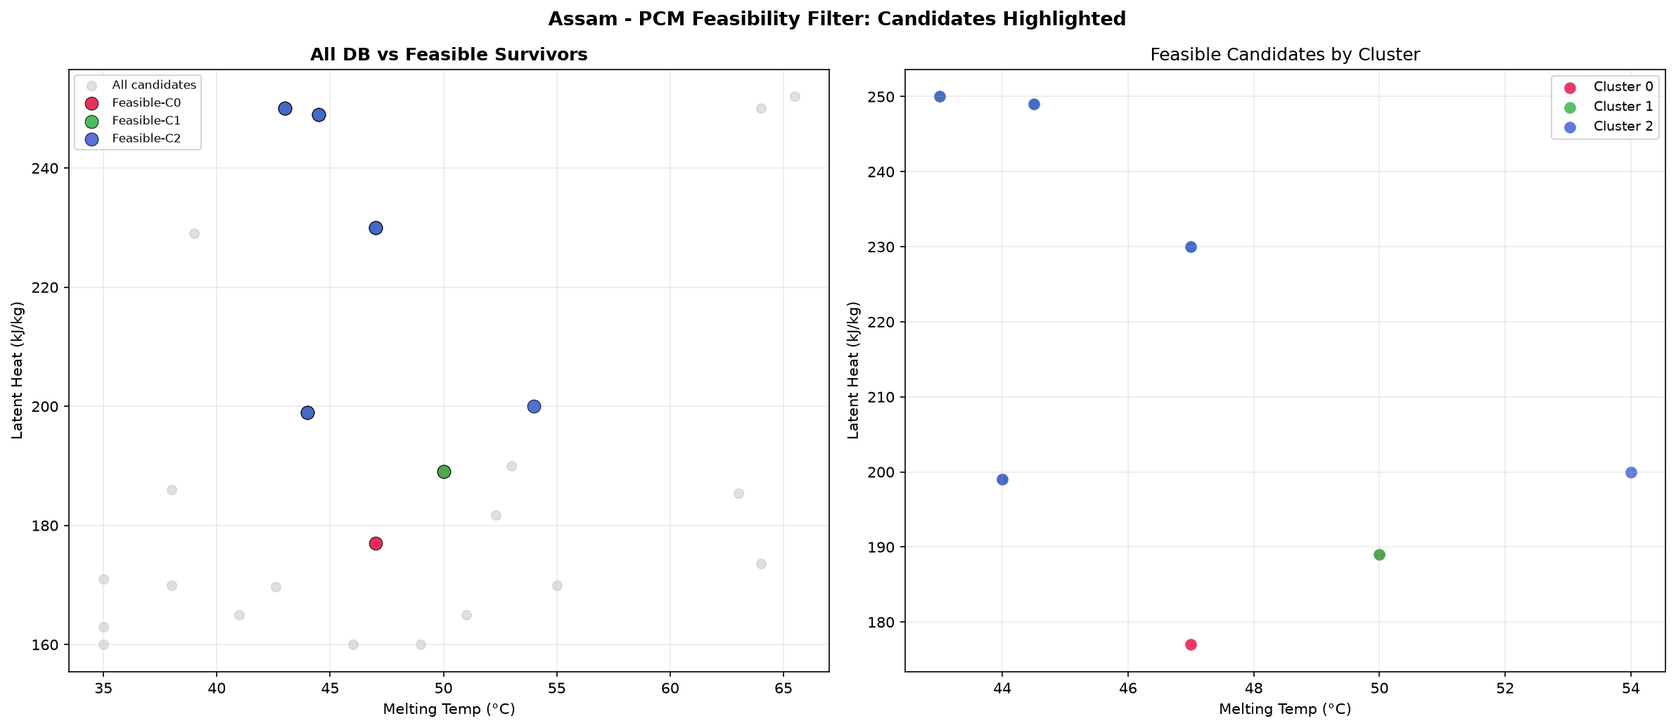
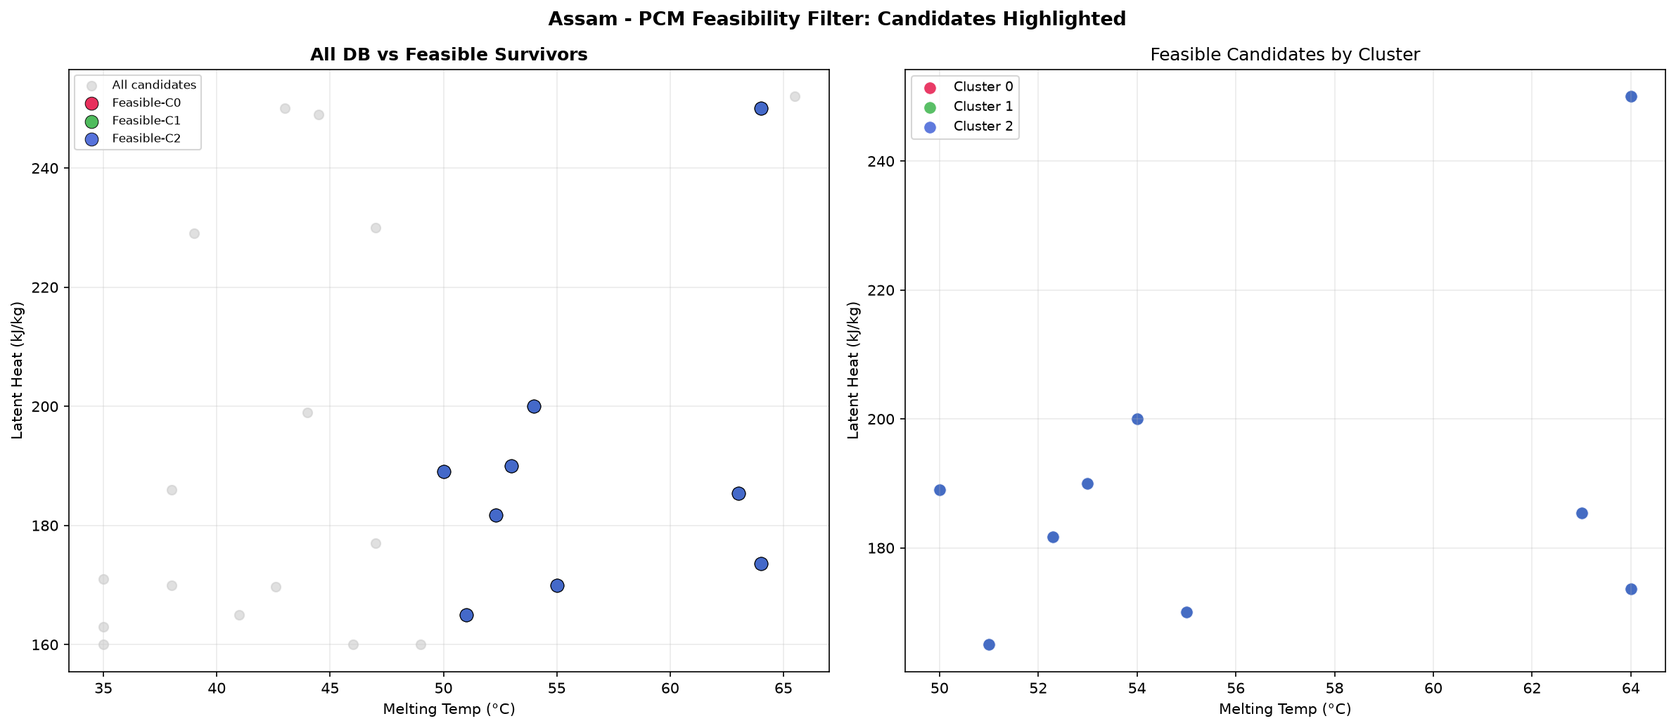
chore(plots): update Assam PCM candidate space and survivors per cluster

diff --git a/public/plots/assam/03_melting_point_vs_latent_heat_interactive.html b/public/plots/assam/03_melting_point_vs_latent_heat_interactive.html
@@ -1,7 +1,11 @@
+<!doctype html>
 <html>
-<head><meta charset="utf-8" /></head>
+<head>
+    <meta charset="utf-8" />
+    <style>html, body {height: 100%;}</style>
+</head>
 <body>
     <div style="height:100%; width:100%;">                        <script>window.PlotlyConfig = {MathJaxConfig: 'local'};</script>
-        <script charset="utf-8" src="https://cdn.plot.ly/plotly-3.6.0.min.js" integrity="sha256-QaOVwtVY0T02VaHrr6pnoHLCwayMJp4O5n4YyaE3rJk=" crossorigin="anonymous"></script>                <div id="8d3543fb-f318-4e74-b277-6341013fbadf" class="plotly-graph-div" style="height:100%; width:100%;"></div>            <script>                window.PLOTLYENV=window.PLOTLYENV || {};                                if (document.getElementById("8d3543fb-f318-4e74-b277-6341013fbadf")) {                    Plotly.newPlot(                        "8d3543fb-f318-4e74-b277-6341013fbadf",                        [{"customdata":[["RT44HC",0.153,800.0],["savE\u00ae OM42",0.145,903.0],["C22H46 (docosane-class paraffin)",null,null],["savE\u00ae OM46",0.15,917.0],["RT45HC",0.1515,900.0],["savE\u00ae OM50",0.175,961.0]],"hovertemplate":"Cluster=0\u003cbr\u003eMelting Temp (\u00b0C)=%{x}\u003cbr\u003eLatent Heat (kJ\u002fkg)=%{y}\u003cbr\u003ename=%{customdata[0]}\u003cbr\u003eTC_W_mK=%{customdata[1]}\u003cbr\u003edensity_solid_kg_m3=%{customdata[2]}\u003cextra\u003e\u003c\u002fextra\u003e","legendgroup":"0","marker":{"color":"rgb(228,26,28)","symbol":"circle"},"mode":"markers","name":"0","orientation":"v","showlegend":true,"x":{"dtype":"f8","bdata":"AAAAAACARUAAAAAAAABGQAAAAAAAQEZAAAAAAACAR0AAAAAAAIBHQAAAAAAAAElA"},"xaxis":"x","y":{"dtype":"f8","bdata":"AAAAAABAb0AAAAAAAOBoQAAAAAAAIG9AAAAAAAAgZkAAAAAAAMBsQAAAAAAAoGdA"},"yaxis":"y","type":"scatter"},{"customdata":[["RT44HC",0.153,800.0],["savE\u00ae OM42",0.145,903.0],["C22H46 (docosane-class paraffin)",null,null],["RT45HC",0.1515,900.0],["savE\u00ae OM50",0.175,961.0]],"hovertemplate":"Cluster=1\u003cbr\u003eMelting Temp (\u00b0C)=%{x}\u003cbr\u003eLatent Heat (kJ\u002fkg)=%{y}\u003cbr\u003ename=%{customdata[0]}\u003cbr\u003eTC_W_mK=%{customdata[1]}\u003cbr\u003edensity_solid_kg_m3=%{customdata[2]}\u003cextra\u003e\u003c\u002fextra\u003e","legendgroup":"1","marker":{"color":"rgb(55,126,184)","symbol":"circle"},"mode":"markers","name":"1","orientation":"v","showlegend":true,"x":{"dtype":"f8","bdata":"AAAAAACARUAAAAAAAABGQAAAAAAAQEZAAAAAAACAR0AAAAAAAABJQA=="},"xaxis":"x","y":{"dtype":"f8","bdata":"AAAAAABAb0AAAAAAAOBoQAAAAAAAIG9AAAAAAADAbEAAAAAAAKBnQA=="},"yaxis":"y","type":"scatter"},{"customdata":[["RT44HC",0.153,800.0],["savE\u00ae OM42",0.145,903.0],["C22H46 (docosane-class paraffin)",null,null],["RT45HC",0.1515,900.0],["RT54HC",0.174,990.0]],"hovertemplate":"Cluster=2\u003cbr\u003eMelting Temp (\u00b0C)=%{x}\u003cbr\u003eLatent Heat (kJ\u002fkg)=%{y}\u003cbr\u003ename=%{customdata[0]}\u003cbr\u003eTC_W_mK=%{customdata[1]}\u003cbr\u003edensity_solid_kg_m3=%{customdata[2]}\u003cextra\u003e\u003c\u002fextra\u003e","legendgroup":"2","marker":{"color":"rgb(77,175,74)","symbol":"circle"},"mode":"markers","name":"2","orientation":"v","showlegend":true,"x":{"dtype":"f8","bdata":"AAAAAACARUAAAAAAAABGQAAAAAAAQEZAAAAAAACAR0AAAAAAAABLQA=="},"xaxis":"x","y":{"dtype":"f8","bdata":"AAAAAABAb0AAAAAAAOBoQAAAAAAAIG9AAAAAAADAbEAAAAAAAABpQA=="},"yaxis":"y","type":"scatter"}],                        {"template":{"data":{"barpolar":[{"marker":{"line":{"color":"white","width":0.5},"pattern":{"fillmode":"overlay","size":10,"solidity":0.2}},"type":"barpolar"}],"bar":[{"error_x":{"color":"#2a3f5f"},"error_y":{"color":"#2a3f5f"},"marker":{"line":{"color":"white","width":0.5},"pattern":{"fillmode":"overlay","size":10,"solidity":0.2}},"type":"bar"}],"carpet":[{"aaxis":{"endlinecolor":"#2a3f5f","gridcolor":"#C8D4E3","linecolor":"#C8D4E3","minorgridcolor":"#C8D4E3","startlinecolor":"#2a3f5f"},"baxis":{"endlinecolor":"#2a3f5f","gridcolor":"#C8D4E3","linecolor":"#C8D4E3","minorgridcolor":"#C8D4E3","startlinecolor":"#2a3f5f"},"type":"carpet"}],"choropleth":[{"colorbar":{"outlinewidth":0,"ticks":""},"type":"choropleth"}],"contourcarpet":[{"colorbar":{"outlinewidth":0,"ticks":""},"type":"contourcarpet"}],"contour":[{"colorbar":{"outlinewidth":0,"ticks":""},"colorscale":[[0.0,"#0d0887"],[0.1111111111111111,"#46039f"],[0.2222222222222222,"#7201a8"],[0.3333333333333333,"#9c179e"],[0.4444444444444444,"#bd3786"],[0.5555555555555556,"#d8576b"],[0.6666666666666666,"#ed7953"],[0.7777777777777778,"#fb9f3a"],[0.8888888888888888,"#fdca26"],[1.0,"#f0f921"]],"type":"contour"}],"heatmap":[{"colorbar":{"outlinewidth":0,"ticks":""},"colorscale":[[0.0,"#0d0887"],[0.1111111111111111,"#46039f"],[0.2222222222222222,"#7201a8"],[0.3333333333333333,"#9c179e"],[0.4444444444444444,"#bd3786"],[0.5555555555555556,"#d8576b"],[0.6666666666666666,"#ed7953"],[0.7777777777777778,"#fb9f3a"],[0.8888888888888888,"#fdca26"],[1.0,"#f0f921"]],"type":"heatmap"}],"histogram2dcontour":[{"colorbar":{"outlinewidth":0,"ticks":""},"colorscale":[[0.0,"#0d0887"],[0.1111111111111111,"#46039f"],[0.2222222222222222,"#7201a8"],[0.3333333333333333,"#9c179e"],[0.4444444444444444,"#bd3786"],[0.5555555555555556,"#d8576b"],[0.6666666666666666,"#ed7953"],[0.7777777777777778,"#fb9f3a"],[0.8888888888888888,"#fdca26"],[1.0,"#f0f921"]],"type":"histogram2dcontour"}],"histogram2d":[{"colorbar":{"outlinewidth":0,"ticks":""},"colorscale":[[0.0,"#0d0887"],[0.1111111111111111,"#46039f"],[0.2222222222222222,"#7201a8"],[0.3333333333333333,"#9c179e"],[0.4444444444444444,"#bd3786"],[0.5555555555555556,"#d8576b"],[0.6666666666666666,"#ed7953"],[0.7777777777777778,"#fb9f3a"],[0.8888888888888888,"#fdca26"],[1.0,"#f0f921"]],"type":"histogram2d"}],"histogram":[{"marker":{"pattern":{"fillmode":"overlay","size":10,"solidity":0.2}},"type":"histogram"}],"mesh3d":[{"colorbar":{"outlinewidth":0,"ticks":""},"type":"mesh3d"}],"parcoords":[{"line":{"colorbar":{"outlinewidth":0,"ticks":""}},"type":"parcoords"}],"pie":[{"automargin":true,"type":"pie"}],"scatter3d":[{"line":{"colorbar":{"outlinewidth":0,"ticks":""}},"marker":{"colorbar":{"outlinewidth":0,"ticks":""}},"type":"scatter3d"}],"scattercarpet":[{"marker":{"colorbar":{"outlinewidth":0,"ticks":""}},"type":"scattercarpet"}],"scattergeo":[{"marker":{"colorbar":{"outlinewidth":0,"ticks":""}},"type":"scattergeo"}],"scattergl":[{"marker":{"colorbar":{"outlinewidth":0,"ticks":""}},"type":"scattergl"}],"scattermapbox":[{"marker":{"colorbar":{"outlinewidth":0,"ticks":""}},"type":"scattermapbox"}],"scattermap":[{"marker":{"colorbar":{"outlinewidth":0,"ticks":""}},"type":"scattermap"}],"scatterpolargl":[{"marker":{"colorbar":{"outlinewidth":0,"ticks":""}},"type":"scatterpolargl"}],"scatterpolar":[{"marker":{"colorbar":{"outlinewidth":0,"ticks":""}},"type":"scatterpolar"}],"scatter":[{"fillpattern":{"fillmode":"overlay","size":10,"solidity":0.2},"type":"scatter"}],"scatterternary":[{"marker":{"colorbar":{"outlinewidth":0,"ticks":""}},"type":"scatterternary"}],"surface":[{"colorbar":{"outlinewidth":0,"ticks":""},"colorscale":[[0.0,"#0d0887"],[0.1111111111111111,"#46039f"],[0.2222222222222222,"#7201a8"],[0.3333333333333333,"#9c179e"],[0.4444444444444444,"#bd3786"],[0.5555555555555556,"#d8576b"],[0.6666666666666666,"#ed7953"],[0.7777777777777778,"#fb9f3a"],[0.8888888888888888,"#fdca26"],[1.0,"#f0f921"]],"type":"surface"}],"table":[{"cells":{"fill":{"color":"#EBF0F8"},"line":{"color":"white"}},"header":{"fill":{"color":"#C8D4E3"},"line":{"color":"white"}},"type":"table"}]},"layout":{"annotationdefaults":{"arrowcolor":"#2a3f5f","arrowhead":0,"arrowwidth":1},"autotypenumbers":"strict","coloraxis":{"colorbar":{"outlinewidth":0,"ticks":""}},"colorscale":{"diverging":[[0,"#8e0152"],[0.1,"#c51b7d"],[0.2,"#de77ae"],[0.3,"#f1b6da"],[0.4,"#fde0ef"],[0.5,"#f7f7f7"],[0.6,"#e6f5d0"],[0.7,"#b8e186"],[0.8,"#7fbc41"],[0.9,"#4d9221"],[1,"#276419"]],"sequential":[[0.0,"#0d0887"],[0.1111111111111111,"#46039f"],[0.2222222222222222,"#7201a8"],[0.3333333333333333,"#9c179e"],[0.4444444444444444,"#bd3786"],[0.5555555555555556,"#d8576b"],[0.6666666666666666,"#ed7953"],[0.7777777777777778,"#fb9f3a"],[0.8888888888888888,"#fdca26"],[1.0,"#f0f921"]],"sequentialminus":[[0.0,"#0d0887"],[0.1111111111111111,"#46039f"],[0.2222222222222222,"#7201a8"],[0.3333333333333333,"#9c179e"],[0.4444444444444444,"#bd3786"],[0.5555555555555556,"#d8576b"],[0.6666666666666666,"#ed7953"],[0.7777777777777778,"#fb9f3a"],[0.8888888888888888,"#fdca26"],[1.0,"#f0f921"]]},"colorway":["#636efa","#EF553B","#00cc96","#ab63fa","#FFA15A","#19d3f3","#FF6692","#B6E880","#FF97FF","#FECB52"],"font":{"color":"#2a3f5f"},"geo":{"bgcolor":"white","lakecolor":"white","landcolor":"white","showlakes":true,"showland":true,"subunitcolor":"#C8D4E3"},"hoverlabel":{"align":"left"},"hovermode":"closest","mapbox":{"style":"light"},"paper_bgcolor":"white","plot_bgcolor":"white","polar":{"angularaxis":{"gridcolor":"#EBF0F8","linecolor":"#EBF0F8","ticks":""},"bgcolor":"white","radialaxis":{"gridcolor":"#EBF0F8","linecolor":"#EBF0F8","ticks":""}},"scene":{"xaxis":{"backgroundcolor":"white","gridcolor":"#DFE8F3","gridwidth":2,"linecolor":"#EBF0F8","showbackground":true,"ticks":"","zerolinecolor":"#EBF0F8"},"yaxis":{"backgroundcolor":"white","gridcolor":"#DFE8F3","gridwidth":2,"linecolor":"#EBF0F8","showbackground":true,"ticks":"","zerolinecolor":"#EBF0F8"},"zaxis":{"backgroundcolor":"white","gridcolor":"#DFE8F3","gridwidth":2,"linecolor":"#EBF0F8","showbackground":true,"ticks":"","zerolinecolor":"#EBF0F8"}},"shapedefaults":{"line":{"color":"#2a3f5f"}},"ternary":{"aaxis":{"gridcolor":"#DFE8F3","linecolor":"#A2B1C6","ticks":""},"baxis":{"gridcolor":"#DFE8F3","linecolor":"#A2B1C6","ticks":""},"bgcolor":"white","caxis":{"gridcolor":"#DFE8F3","linecolor":"#A2B1C6","ticks":""}},"title":{"x":0.05},"xaxis":{"automargin":true,"gridcolor":"#EBF0F8","linecolor":"#EBF0F8","ticks":"","title":{"standoff":15},"zerolinecolor":"#EBF0F8","zerolinewidth":2},"yaxis":{"automargin":true,"gridcolor":"#EBF0F8","linecolor":"#EBF0F8","ticks":"","title":{"standoff":15},"zerolinecolor":"#EBF0F8","zerolinewidth":2}}},"xaxis":{"anchor":"y","domain":[0.0,1.0],"title":{"text":"Melting Temp (\u00b0C)"}},"yaxis":{"anchor":"x","domain":[0.0,1.0],"title":{"text":"Latent Heat (kJ\u002fkg)"}},"legend":{"title":{"text":"Cluster"},"tracegroupgap":0},"title":{"text":"Assam - Feasible PCM Candidate Space (Tm vs Latent Heat)"}},                        {"responsive": true}                    )                };            </script>        </div>
+        <script charset="utf-8" src="https://cdn.plot.ly/plotly-4.0.0.min.js" integrity="sha256-FEYfO0yRyLtZCpnW0Dw/0DHKQO7Afrq3ml4+rBB818o=" crossorigin="anonymous"></script>                <div id="2cdedc4e-c705-4c64-a567-80e247284792" class="plotly-graph-div" style="height:100%; width:100%;"></div>            <script>                window.PLOTLYENV=window.PLOTLYENV || {};                                if (document.getElementById("2cdedc4e-c705-4c64-a567-80e247284792")) {                    Plotly.newPlot(                        "2cdedc4e-c705-4c64-a567-80e247284792",                        [{"customdata":[["savE® OM50",0.175,961.0],["savE® OM48",0.15,960.0],["Palmitic-Stearic eutectic (64.2\u002f35.8)",null,null],["Myristic acid",null,null],["RT54HC",0.174,990.0],["RT55",0.182,880.0],["Palmitic acid",null,null],["RT64HC",0.151,900.0],["Paraffin wax (generic)",null,916.0]],"hovertemplate":"Cluster=0\u003cbr\u003eMelting Temp (°C)=%{x}\u003cbr\u003eLatent Heat (kJ\u002fkg)=%{y}\u003cbr\u003ename=%{customdata[0]}\u003cbr\u003eTC_W_mK=%{customdata[1]}\u003cbr\u003edensity_solid_kg_m3=%{customdata[2]}\u003cextra\u003e\u003c\u002fextra\u003e","legendgroup":"0","marker":{"color":"rgb(228,26,28)","symbol":"circle"},"mode":"markers","name":"0","orientation":"v","showlegend":true,"x":{"dtype":"f8","bdata":"AAAAAAAASUAAAAAAAIBJQGZmZmZmJkpAAAAAAACASkAAAAAAAABLQAAAAAAAgEtAAAAAAACAT0AAAAAAAABQQAAAAAAAAFBA"},"xaxis":"x","y":{"dtype":"f8","bdata":"AAAAAACgZ0AAAAAAAKBkQGZmZmZmtmZAAAAAAADAZ0AAAAAAAABpQAAAAAAAQGVAzczMzMwsZ0AAAAAAAEBvQDMzMzMzs2VA"},"yaxis":"y","type":"scatter"},{"customdata":[["savE® OM50",0.175,961.0],["savE® OM48",0.15,960.0],["Palmitic-Stearic eutectic (64.2\u002f35.8)",null,null],["Myristic acid",null,null],["RT54HC",0.174,990.0],["RT55",0.182,880.0],["Palmitic acid",null,null],["RT64HC",0.151,900.0],["Paraffin wax (generic)",null,916.0]],"hovertemplate":"Cluster=1\u003cbr\u003eMelting Temp (°C)=%{x}\u003cbr\u003eLatent Heat (kJ\u002fkg)=%{y}\u003cbr\u003ename=%{customdata[0]}\u003cbr\u003eTC_W_mK=%{customdata[1]}\u003cbr\u003edensity_solid_kg_m3=%{customdata[2]}\u003cextra\u003e\u003c\u002fextra\u003e","legendgroup":"1","marker":{"color":"rgb(55,126,184)","symbol":"circle"},"mode":"markers","name":"1","orientation":"v","showlegend":true,"x":{"dtype":"f8","bdata":"AAAAAAAASUAAAAAAAIBJQGZmZmZmJkpAAAAAAACASkAAAAAAAABLQAAAAAAAgEtAAAAAAACAT0AAAAAAAABQQAAAAAAAAFBA"},"xaxis":"x","y":{"dtype":"f8","bdata":"AAAAAACgZ0AAAAAAAKBkQGZmZmZmtmZAAAAAAADAZ0AAAAAAAABpQAAAAAAAQGVAzczMzMwsZ0AAAAAAAEBvQDMzMzMzs2VA"},"yaxis":"y","type":"scatter"},{"customdata":[["savE® OM50",0.175,961.0],["savE® OM48",0.15,960.0],["Palmitic-Stearic eutectic (64.2\u002f35.8)",null,null],["Myristic acid",null,null],["RT54HC",0.174,990.0],["RT55",0.182,880.0],["Palmitic acid",null,null],["RT64HC",0.151,900.0],["Paraffin wax (generic)",null,916.0]],"hovertemplate":"Cluster=2\u003cbr\u003eMelting Temp (°C)=%{x}\u003cbr\u003eLatent Heat (kJ\u002fkg)=%{y}\u003cbr\u003ename=%{customdata[0]}\u003cbr\u003eTC_W_mK=%{customdata[1]}\u003cbr\u003edensity_solid_kg_m3=%{customdata[2]}\u003cextra\u003e\u003c\u002fextra\u003e","legendgroup":"2","marker":{"color":"rgb(77,175,74)","symbol":"circle"},"mode":"markers","name":"2","orientation":"v","showlegend":true,"x":{"dtype":"f8","bdata":"AAAAAAAASUAAAAAAAIBJQGZmZmZmJkpAAAAAAACASkAAAAAAAABLQAAAAAAAgEtAAAAAAACAT0AAAAAAAABQQAAAAAAAAFBA"},"xaxis":"x","y":{"dtype":"f8","bdata":"AAAAAACgZ0AAAAAAAKBkQGZmZmZmtmZAAAAAAADAZ0AAAAAAAABpQAAAAAAAQGVAzczMzMwsZ0AAAAAAAEBvQDMzMzMzs2VA"},"yaxis":"y","type":"scatter"}],                        {"template":{"data":{"barpolar":[{"marker":{"line":{"color":"white","width":0.5},"pattern":{"fillmode":"overlay","size":10,"solidity":0.2}},"type":"barpolar"}],"bar":[{"error_x":{"color":"#2a3f5f"},"error_y":{"color":"#2a3f5f"},"marker":{"line":{"color":"white","width":0.5},"pattern":{"fillmode":"overlay","size":10,"solidity":0.2}},"type":"bar"}],"carpet":[{"aaxis":{"endlinecolor":"#2a3f5f","gridcolor":"#C8D4E3","linecolor":"#C8D4E3","minorgridcolor":"#C8D4E3","startlinecolor":"#2a3f5f"},"baxis":{"endlinecolor":"#2a3f5f","gridcolor":"#C8D4E3","linecolor":"#C8D4E3","minorgridcolor":"#C8D4E3","startlinecolor":"#2a3f5f"},"type":"carpet"}],"choropleth":[{"colorbar":{"outlinewidth":0,"ticks":""},"type":"choropleth"}],"contourcarpet":[{"colorbar":{"outlinewidth":0,"ticks":""},"type":"contourcarpet"}],"contour":[{"colorbar":{"outlinewidth":0,"ticks":""},"colorscale":[[0.0,"#0d0887"],[0.1111111111111111,"#46039f"],[0.2222222222222222,"#7201a8"],[0.3333333333333333,"#9c179e"],[0.4444444444444444,"#bd3786"],[0.5555555555555556,"#d8576b"],[0.6666666666666666,"#ed7953"],[0.7777777777777778,"#fb9f3a"],[0.8888888888888888,"#fdca26"],[1.0,"#f0f921"]],"type":"contour"}],"heatmap":[{"colorbar":{"outlinewidth":0,"ticks":""},"colorscale":[[0.0,"#0d0887"],[0.1111111111111111,"#46039f"],[0.2222222222222222,"#7201a8"],[0.3333333333333333,"#9c179e"],[0.4444444444444444,"#bd3786"],[0.5555555555555556,"#d8576b"],[0.6666666666666666,"#ed7953"],[0.7777777777777778,"#fb9f3a"],[0.8888888888888888,"#fdca26"],[1.0,"#f0f921"]],"type":"heatmap"}],"histogram2dcontour":[{"colorbar":{"outlinewidth":0,"ticks":""},"colorscale":[[0.0,"#0d0887"],[0.1111111111111111,"#46039f"],[0.2222222222222222,"#7201a8"],[0.3333333333333333,"#9c179e"],[0.4444444444444444,"#bd3786"],[0.5555555555555556,"#d8576b"],[0.6666666666666666,"#ed7953"],[0.7777777777777778,"#fb9f3a"],[0.8888888888888888,"#fdca26"],[1.0,"#f0f921"]],"type":"histogram2dcontour"}],"histogram2d":[{"colorbar":{"outlinewidth":0,"ticks":""},"colorscale":[[0.0,"#0d0887"],[0.1111111111111111,"#46039f"],[0.2222222222222222,"#7201a8"],[0.3333333333333333,"#9c179e"],[0.4444444444444444,"#bd3786"],[0.5555555555555556,"#d8576b"],[0.6666666666666666,"#ed7953"],[0.7777777777777778,"#fb9f3a"],[0.8888888888888888,"#fdca26"],[1.0,"#f0f921"]],"type":"histogram2d"}],"histogram":[{"marker":{"pattern":{"fillmode":"overlay","size":10,"solidity":0.2}},"type":"histogram"}],"mesh3d":[{"colorbar":{"outlinewidth":0,"ticks":""},"type":"mesh3d"}],"parcoords":[{"line":{"colorbar":{"outlinewidth":0,"ticks":""}},"type":"parcoords"}],"pie":[{"automargin":true,"type":"pie"}],"scatter3d":[{"line":{"colorbar":{"outlinewidth":0,"ticks":""}},"marker":{"colorbar":{"outlinewidth":0,"ticks":""}},"type":"scatter3d"}],"scattercarpet":[{"marker":{"colorbar":{"outlinewidth":0,"ticks":""}},"type":"scattercarpet"}],"scattergeo":[{"marker":{"colorbar":{"outlinewidth":0,"ticks":""}},"type":"scattergeo"}],"scattergl":[{"marker":{"colorbar":{"outlinewidth":0,"ticks":""}},"type":"scattergl"}],"scattermap":[{"marker":{"colorbar":{"outlinewidth":0,"ticks":""}},"type":"scattermap"}],"scatterpolargl":[{"marker":{"colorbar":{"outlinewidth":0,"ticks":""}},"type":"scatterpolargl"}],"scatterpolar":[{"marker":{"colorbar":{"outlinewidth":0,"ticks":""}},"type":"scatterpolar"}],"scatter":[{"fillpattern":{"fillmode":"overlay","size":10,"solidity":0.2},"type":"scatter"}],"scatterternary":[{"marker":{"colorbar":{"outlinewidth":0,"ticks":""}},"type":"scatterternary"}],"surface":[{"colorbar":{"outlinewidth":0,"ticks":""},"colorscale":[[0.0,"#0d0887"],[0.1111111111111111,"#46039f"],[0.2222222222222222,"#7201a8"],[0.3333333333333333,"#9c179e"],[0.4444444444444444,"#bd3786"],[0.5555555555555556,"#d8576b"],[0.6666666666666666,"#ed7953"],[0.7777777777777778,"#fb9f3a"],[0.8888888888888888,"#fdca26"],[1.0,"#f0f921"]],"type":"surface"}],"table":[{"cells":{"fill":{"color":"#EBF0F8"},"line":{"color":"white"}},"header":{"fill":{"color":"#C8D4E3"},"line":{"color":"white"}},"type":"table"}]},"layout":{"annotationdefaults":{"arrowcolor":"#2a3f5f","arrowhead":0,"arrowwidth":1},"autotypenumbers":"strict","coloraxis":{"colorbar":{"outlinewidth":0,"ticks":""}},"colorscale":{"diverging":[[0,"#8e0152"],[0.1,"#c51b7d"],[0.2,"#de77ae"],[0.3,"#f1b6da"],[0.4,"#fde0ef"],[0.5,"#f7f7f7"],[0.6,"#e6f5d0"],[0.7,"#b8e186"],[0.8,"#7fbc41"],[0.9,"#4d9221"],[1,"#276419"]],"sequential":[[0.0,"#0d0887"],[0.1111111111111111,"#46039f"],[0.2222222222222222,"#7201a8"],[0.3333333333333333,"#9c179e"],[0.4444444444444444,"#bd3786"],[0.5555555555555556,"#d8576b"],[0.6666666666666666,"#ed7953"],[0.7777777777777778,"#fb9f3a"],[0.8888888888888888,"#fdca26"],[1.0,"#f0f921"]],"sequentialminus":[[0.0,"#0d0887"],[0.1111111111111111,"#46039f"],[0.2222222222222222,"#7201a8"],[0.3333333333333333,"#9c179e"],[0.4444444444444444,"#bd3786"],[0.5555555555555556,"#d8576b"],[0.6666666666666666,"#ed7953"],[0.7777777777777778,"#fb9f3a"],[0.8888888888888888,"#fdca26"],[1.0,"#f0f921"]]},"colorway":["#636efa","#EF553B","#00cc96","#ab63fa","#FFA15A","#19d3f3","#FF6692","#B6E880","#FF97FF","#FECB52"],"font":{"color":"#2a3f5f"},"geo":{"bgcolor":"white","lakecolor":"white","landcolor":"white","showlakes":true,"showland":true,"subunitcolor":"#C8D4E3"},"hoverlabel":{"align":"left"},"hovermode":"closest","paper_bgcolor":"white","plot_bgcolor":"white","polar":{"angularaxis":{"gridcolor":"#EBF0F8","linecolor":"#EBF0F8","ticks":""},"bgcolor":"white","radialaxis":{"gridcolor":"#EBF0F8","linecolor":"#EBF0F8","ticks":""}},"scene":{"xaxis":{"backgroundcolor":"white","gridcolor":"#DFE8F3","gridwidth":2,"linecolor":"#EBF0F8","showbackground":true,"ticks":"","zerolinecolor":"#EBF0F8"},"yaxis":{"backgroundcolor":"white","gridcolor":"#DFE8F3","gridwidth":2,"linecolor":"#EBF0F8","showbackground":true,"ticks":"","zerolinecolor":"#EBF0F8"},"zaxis":{"backgroundcolor":"white","gridcolor":"#DFE8F3","gridwidth":2,"linecolor":"#EBF0F8","showbackground":true,"ticks":"","zerolinecolor":"#EBF0F8"}},"shapedefaults":{"line":{"color":"#2a3f5f"}},"ternary":{"aaxis":{"gridcolor":"#DFE8F3","linecolor":"#A2B1C6","ticks":""},"baxis":{"gridcolor":"#DFE8F3","linecolor":"#A2B1C6","ticks":""},"bgcolor":"white","caxis":{"gridcolor":"#DFE8F3","linecolor":"#A2B1C6","ticks":""}},"title":{"x":0.05},"xaxis":{"automargin":true,"gridcolor":"#EBF0F8","linecolor":"#EBF0F8","ticks":"","title":{"standoff":15},"zerolinecolor":"#EBF0F8","zerolinewidth":2},"yaxis":{"automargin":true,"gridcolor":"#EBF0F8","linecolor":"#EBF0F8","ticks":"","title":{"standoff":15},"zerolinecolor":"#EBF0F8","zerolinewidth":2}}},"xaxis":{"anchor":"y","domain":[0.0,1.0],"title":{"text":"Melting Temp (°C)"}},"yaxis":{"anchor":"x","domain":[0.0,1.0],"title":{"text":"Latent Heat (kJ\u002fkg)"}},"legend":{"title":{"text":"Cluster"},"tracegroupgap":0},"title":{"text":"Assam - Feasible PCM Candidate Space (Tm vs Latent Heat)"}},                        {"responsive": true}                    )                };            </script>        </div>
 </body>
 </html>

diff --git a/public/plots/assam/05_pcm_survivors_per_cluster_interactive.html b/public/plots/assam/05_pcm_survivors_per_cluster_interactive.html
@@ -6,6 +6,6 @@
 </head>
 <body>
     <div style="height:100%; width:100%;">                        <script>window.PlotlyConfig = {MathJaxConfig: 'local'};</script>
-        <script charset="utf-8" src="https://cdn.plot.ly/plotly-4.1.1.min.js" integrity="sha256-O24V1F27f8pb0glCkelh3cVHLNiHAJ5gCaVtq2aNch8=" crossorigin="anonymous"></script>                <div id="a70ca693-bfd1-46a8-a661-ea65927d624b" class="plotly-graph-div" style="height:100%; width:100%;"></div>            <script>                window.PLOTLYENV=window.PLOTLYENV || {};                                if (document.getElementById("a70ca693-bfd1-46a8-a661-ea65927d624b")) {                    Plotly.newPlot(                        "a70ca693-bfd1-46a8-a661-ea65927d624b",                        [{"hovertemplate":"Cluster=0\u003cbr\u003eCluster ID=%{x}\u003cbr\u003eFeasible PCM count=%{text}\u003cextra\u003e\u003c\u002fextra\u003e","legendgroup":"0","marker":{"color":"rgb(228,26,28)","pattern":{"shape":""}},"name":"0","orientation":"v","showlegend":true,"text":{"dtype":"f8","bdata":"AAAAAACAQUA="},"textposition":"outside","x":["0"],"xaxis":"x","y":{"dtype":"i1","bdata":"Iw=="},"yaxis":"y","type":"bar"},{"hovertemplate":"Cluster=1\u003cbr\u003eCluster ID=%{x}\u003cbr\u003eFeasible PCM count=%{text}\u003cextra\u003e\u003c\u002fextra\u003e","legendgroup":"1","marker":{"color":"rgb(55,126,184)","pattern":{"shape":""}},"name":"1","orientation":"v","showlegend":true,"text":{"dtype":"f8","bdata":"AAAAAACAQEA="},"textposition":"outside","x":["1"],"xaxis":"x","y":{"dtype":"i1","bdata":"IQ=="},"yaxis":"y","type":"bar"},{"hovertemplate":"Cluster=2\u003cbr\u003eCluster ID=%{x}\u003cbr\u003eFeasible PCM count=%{text}\u003cextra\u003e\u003c\u002fextra\u003e","legendgroup":"2","marker":{"color":"rgb(77,175,74)","pattern":{"shape":""}},"name":"2","orientation":"v","showlegend":true,"text":{"dtype":"f8","bdata":"AAAAAACAQEA="},"textposition":"outside","x":["2"],"xaxis":"x","y":{"dtype":"i1","bdata":"IQ=="},"yaxis":"y","type":"bar"}],                        {"template":{"data":{"barpolar":[{"marker":{"line":{"color":"white","width":0.5},"pattern":{"fillmode":"overlay","size":10,"solidity":0.2}},"type":"barpolar"}],"bar":[{"error_x":{"color":"#2a3f5f"},"error_y":{"color":"#2a3f5f"},"marker":{"line":{"color":"white","width":0.5},"pattern":{"fillmode":"overlay","size":10,"solidity":0.2}},"type":"bar"}],"carpet":[{"aaxis":{"endlinecolor":"#2a3f5f","gridcolor":"#C8D4E3","linecolor":"#C8D4E3","minorgridcolor":"#C8D4E3","startlinecolor":"#2a3f5f"},"baxis":{"endlinecolor":"#2a3f5f","gridcolor":"#C8D4E3","linecolor":"#C8D4E3","minorgridcolor":"#C8D4E3","startlinecolor":"#2a3f5f"},"type":"carpet"}],"choropleth":[{"colorbar":{"outlinewidth":0,"ticks":""},"type":"choropleth"}],"contourcarpet":[{"colorbar":{"outlinewidth":0,"ticks":""},"type":"contourcarpet"}],"contour":[{"colorbar":{"outlinewidth":0,"ticks":""},"colorscale":[[0.0,"#0d0887"],[0.1111111111111111,"#46039f"],[0.2222222222222222,"#7201a8"],[0.3333333333333333,"#9c179e"],[0.4444444444444444,"#bd3786"],[0.5555555555555556,"#d8576b"],[0.6666666666666666,"#ed7953"],[0.7777777777777778,"#fb9f3a"],[0.8888888888888888,"#fdca26"],[1.0,"#f0f921"]],"type":"contour"}],"heatmap":[{"colorbar":{"outlinewidth":0,"ticks":""},"colorscale":[[0.0,"#0d0887"],[0.1111111111111111,"#46039f"],[0.2222222222222222,"#7201a8"],[0.3333333333333333,"#9c179e"],[0.4444444444444444,"#bd3786"],[0.5555555555555556,"#d8576b"],[0.6666666666666666,"#ed7953"],[0.7777777777777778,"#fb9f3a"],[0.8888888888888888,"#fdca26"],[1.0,"#f0f921"]],"type":"heatmap"}],"histogram2dcontour":[{"colorbar":{"outlinewidth":0,"ticks":""},"colorscale":[[0.0,"#0d0887"],[0.1111111111111111,"#46039f"],[0.2222222222222222,"#7201a8"],[0.3333333333333333,"#9c179e"],[0.4444444444444444,"#bd3786"],[0.5555555555555556,"#d8576b"],[0.6666666666666666,"#ed7953"],[0.7777777777777778,"#fb9f3a"],[0.8888888888888888,"#fdca26"],[1.0,"#f0f921"]],"type":"histogram2dcontour"}],"histogram2d":[{"colorbar":{"outlinewidth":0,"ticks":""},"colorscale":[[0.0,"#0d0887"],[0.1111111111111111,"#46039f"],[0.2222222222222222,"#7201a8"],[0.3333333333333333,"#9c179e"],[0.4444444444444444,"#bd3786"],[0.5555555555555556,"#d8576b"],[0.6666666666666666,"#ed7953"],[0.7777777777777778,"#fb9f3a"],[0.8888888888888888,"#fdca26"],[1.0,"#f0f921"]],"type":"histogram2d"}],"histogram":[{"marker":{"pattern":{"fillmode":"overlay","size":10,"solidity":0.2}},"type":"histogram"}],"mesh3d":[{"colorbar":{"outlinewidth":0,"ticks":""},"type":"mesh3d"}],"parcoords":[{"line":{"colorbar":{"outlinewidth":0,"ticks":""}},"type":"parcoords"}],"pie":[{"automargin":true,"type":"pie"}],"scatter3d":[{"line":{"colorbar":{"outlinewidth":0,"ticks":""}},"marker":{"colorbar":{"outlinewidth":0,"ticks":""}},"type":"scatter3d"}],"scattercarpet":[{"marker":{"colorbar":{"outlinewidth":0,"ticks":""}},"type":"scattercarpet"}],"scattergeo":[{"marker":{"colorbar":{"outlinewidth":0,"ticks":""}},"type":"scattergeo"}],"scattergl":[{"marker":{"colorbar":{"outlinewidth":0,"ticks":""}},"type":"scattergl"}],"scattermap":[{"marker":{"colorbar":{"outlinewidth":0,"ticks":""}},"type":"scattermap"}],"scatterpolargl":[{"marker":{"colorbar":{"outlinewidth":0,"ticks":""}},"type":"scatterpolargl"}],"scatterpolar":[{"marker":{"colorbar":{"outlinewidth":0,"ticks":""}},"type":"scatterpolar"}],"scatter":[{"fillpattern":{"fillmode":"overlay","size":10,"solidity":0.2},"type":"scatter"}],"scatterternary":[{"marker":{"colorbar":{"outlinewidth":0,"ticks":""}},"type":"scatterternary"}],"surface":[{"colorbar":{"outlinewidth":0,"ticks":""},"colorscale":[[0.0,"#0d0887"],[0.1111111111111111,"#46039f"],[0.2222222222222222,"#7201a8"],[0.3333333333333333,"#9c179e"],[0.4444444444444444,"#bd3786"],[0.5555555555555556,"#d8576b"],[0.6666666666666666,"#ed7953"],[0.7777777777777778,"#fb9f3a"],[0.8888888888888888,"#fdca26"],[1.0,"#f0f921"]],"type":"surface"}],"table":[{"cells":{"fill":{"color":"#EBF0F8"},"line":{"color":"white"}},"header":{"fill":{"color":"#C8D4E3"},"line":{"color":"white"}},"type":"table"}]},"layout":{"annotationdefaults":{"arrowcolor":"#2a3f5f","arrowhead":0,"arrowwidth":1},"autotypenumbers":"strict","coloraxis":{"colorbar":{"outlinewidth":0,"ticks":""}},"colorscale":{"diverging":[[0,"#8e0152"],[0.1,"#c51b7d"],[0.2,"#de77ae"],[0.3,"#f1b6da"],[0.4,"#fde0ef"],[0.5,"#f7f7f7"],[0.6,"#e6f5d0"],[0.7,"#b8e186"],[0.8,"#7fbc41"],[0.9,"#4d9221"],[1,"#276419"]],"sequential":[[0.0,"#0d0887"],[0.1111111111111111,"#46039f"],[0.2222222222222222,"#7201a8"],[0.3333333333333333,"#9c179e"],[0.4444444444444444,"#bd3786"],[0.5555555555555556,"#d8576b"],[0.6666666666666666,"#ed7953"],[0.7777777777777778,"#fb9f3a"],[0.8888888888888888,"#fdca26"],[1.0,"#f0f921"]],"sequentialminus":[[0.0,"#0d0887"],[0.1111111111111111,"#46039f"],[0.2222222222222222,"#7201a8"],[0.3333333333333333,"#9c179e"],[0.4444444444444444,"#bd3786"],[0.5555555555555556,"#d8576b"],[0.6666666666666666,"#ed7953"],[0.7777777777777778,"#fb9f3a"],[0.8888888888888888,"#fdca26"],[1.0,"#f0f921"]]},"colorway":["#636efa","#EF553B","#00cc96","#ab63fa","#FFA15A","#19d3f3","#FF6692","#B6E880","#FF97FF","#FECB52"],"font":{"color":"#2a3f5f"},"geo":{"bgcolor":"white","lakecolor":"white","landcolor":"white","showlakes":true,"showland":true,"subunitcolor":"#C8D4E3"},"hoverlabel":{"align":"left"},"hovermode":"closest","paper_bgcolor":"white","plot_bgcolor":"white","polar":{"angularaxis":{"gridcolor":"#EBF0F8","linecolor":"#EBF0F8","ticks":""},"bgcolor":"white","radialaxis":{"gridcolor":"#EBF0F8","linecolor":"#EBF0F8","ticks":""}},"scene":{"xaxis":{"backgroundcolor":"white","gridcolor":"#DFE8F3","gridwidth":2,"linecolor":"#EBF0F8","showbackground":true,"ticks":"","zerolinecolor":"#EBF0F8"},"yaxis":{"backgroundcolor":"white","gridcolor":"#DFE8F3","gridwidth":2,"linecolor":"#EBF0F8","showbackground":true,"ticks":"","zerolinecolor":"#EBF0F8"},"zaxis":{"backgroundcolor":"white","gridcolor":"#DFE8F3","gridwidth":2,"linecolor":"#EBF0F8","showbackground":true,"ticks":"","zerolinecolor":"#EBF0F8"}},"shapedefaults":{"line":{"color":"#2a3f5f"}},"ternary":{"aaxis":{"gridcolor":"#DFE8F3","linecolor":"#A2B1C6","ticks":""},"baxis":{"gridcolor":"#DFE8F3","linecolor":"#A2B1C6","ticks":""},"bgcolor":"white","caxis":{"gridcolor":"#DFE8F3","linecolor":"#A2B1C6","ticks":""}},"title":{"x":0.05},"xaxis":{"automargin":true,"gridcolor":"#EBF0F8","linecolor":"#EBF0F8","ticks":"","title":{"standoff":15},"zerolinecolor":"#EBF0F8","zerolinewidth":2},"yaxis":{"automargin":true,"gridcolor":"#EBF0F8","linecolor":"#EBF0F8","ticks":"","title":{"standoff":15},"zerolinecolor":"#EBF0F8","zerolinewidth":2}}},"xaxis":{"anchor":"y","domain":[0.0,1.0],"title":{"text":"Cluster ID"}},"yaxis":{"anchor":"x","domain":[0.0,1.0],"title":{"text":"Feasible PCM count"}},"legend":{"title":{"text":"Cluster"},"tracegroupgap":0},"title":{"text":"Feasible PCM Candidates per Climate Regime (Assam)"},"barmode":"relative"},                        {"responsive": true}                    )                };            </script>        </div>
+        <script charset="utf-8" src="https://cdn.plot.ly/plotly-4.0.0.min.js" integrity="sha256-FEYfO0yRyLtZCpnW0Dw/0DHKQO7Afrq3ml4+rBB818o=" crossorigin="anonymous"></script>                <div id="0f964e87-4f0c-48c4-a28b-e4dc83847561" class="plotly-graph-div" style="height:100%; width:100%;"></div>            <script>                window.PLOTLYENV=window.PLOTLYENV || {};                                if (document.getElementById("0f964e87-4f0c-48c4-a28b-e4dc83847561")) {                    Plotly.newPlot(                        "0f964e87-4f0c-48c4-a28b-e4dc83847561",                        [{"hovertemplate":"Cluster=0\u003cbr\u003eCluster ID=%{x}\u003cbr\u003eFeasible PCM count=%{text}\u003cextra\u003e\u003c\u002fextra\u003e","legendgroup":"0","marker":{"color":"rgb(228,26,28)","pattern":{"shape":""}},"name":"0","orientation":"v","showlegend":true,"text":{"dtype":"f8","bdata":"AAAAAAAAIkA="},"textposition":"outside","x":["0"],"xaxis":"x","y":{"dtype":"i1","bdata":"CQ=="},"yaxis":"y","type":"bar"},{"hovertemplate":"Cluster=1\u003cbr\u003eCluster ID=%{x}\u003cbr\u003eFeasible PCM count=%{text}\u003cextra\u003e\u003c\u002fextra\u003e","legendgroup":"1","marker":{"color":"rgb(55,126,184)","pattern":{"shape":""}},"name":"1","orientation":"v","showlegend":true,"text":{"dtype":"f8","bdata":"AAAAAAAAIkA="},"textposition":"outside","x":["1"],"xaxis":"x","y":{"dtype":"i1","bdata":"CQ=="},"yaxis":"y","type":"bar"},{"hovertemplate":"Cluster=2\u003cbr\u003eCluster ID=%{x}\u003cbr\u003eFeasible PCM count=%{text}\u003cextra\u003e\u003c\u002fextra\u003e","legendgroup":"2","marker":{"color":"rgb(77,175,74)","pattern":{"shape":""}},"name":"2","orientation":"v","showlegend":true,"text":{"dtype":"f8","bdata":"AAAAAAAAIkA="},"textposition":"outside","x":["2"],"xaxis":"x","y":{"dtype":"i1","bdata":"CQ=="},"yaxis":"y","type":"bar"}],                        {"template":{"data":{"barpolar":[{"marker":{"line":{"color":"white","width":0.5},"pattern":{"fillmode":"overlay","size":10,"solidity":0.2}},"type":"barpolar"}],"bar":[{"error_x":{"color":"#2a3f5f"},"error_y":{"color":"#2a3f5f"},"marker":{"line":{"color":"white","width":0.5},"pattern":{"fillmode":"overlay","size":10,"solidity":0.2}},"type":"bar"}],"carpet":[{"aaxis":{"endlinecolor":"#2a3f5f","gridcolor":"#C8D4E3","linecolor":"#C8D4E3","minorgridcolor":"#C8D4E3","startlinecolor":"#2a3f5f"},"baxis":{"endlinecolor":"#2a3f5f","gridcolor":"#C8D4E3","linecolor":"#C8D4E3","minorgridcolor":"#C8D4E3","startlinecolor":"#2a3f5f"},"type":"carpet"}],"choropleth":[{"colorbar":{"outlinewidth":0,"ticks":""},"type":"choropleth"}],"contourcarpet":[{"colorbar":{"outlinewidth":0,"ticks":""},"type":"contourcarpet"}],"contour":[{"colorbar":{"outlinewidth":0,"ticks":""},"colorscale":[[0.0,"#0d0887"],[0.1111111111111111,"#46039f"],[0.2222222222222222,"#7201a8"],[0.3333333333333333,"#9c179e"],[0.4444444444444444,"#bd3786"],[0.5555555555555556,"#d8576b"],[0.6666666666666666,"#ed7953"],[0.7777777777777778,"#fb9f3a"],[0.8888888888888888,"#fdca26"],[1.0,"#f0f921"]],"type":"contour"}],"heatmap":[{"colorbar":{"outlinewidth":0,"ticks":""},"colorscale":[[0.0,"#0d0887"],[0.1111111111111111,"#46039f"],[0.2222222222222222,"#7201a8"],[0.3333333333333333,"#9c179e"],[0.4444444444444444,"#bd3786"],[0.5555555555555556,"#d8576b"],[0.6666666666666666,"#ed7953"],[0.7777777777777778,"#fb9f3a"],[0.8888888888888888,"#fdca26"],[1.0,"#f0f921"]],"type":"heatmap"}],"histogram2dcontour":[{"colorbar":{"outlinewidth":0,"ticks":""},"colorscale":[[0.0,"#0d0887"],[0.1111111111111111,"#46039f"],[0.2222222222222222,"#7201a8"],[0.3333333333333333,"#9c179e"],[0.4444444444444444,"#bd3786"],[0.5555555555555556,"#d8576b"],[0.6666666666666666,"#ed7953"],[0.7777777777777778,"#fb9f3a"],[0.8888888888888888,"#fdca26"],[1.0,"#f0f921"]],"type":"histogram2dcontour"}],"histogram2d":[{"colorbar":{"outlinewidth":0,"ticks":""},"colorscale":[[0.0,"#0d0887"],[0.1111111111111111,"#46039f"],[0.2222222222222222,"#7201a8"],[0.3333333333333333,"#9c179e"],[0.4444444444444444,"#bd3786"],[0.5555555555555556,"#d8576b"],[0.6666666666666666,"#ed7953"],[0.7777777777777778,"#fb9f3a"],[0.8888888888888888,"#fdca26"],[1.0,"#f0f921"]],"type":"histogram2d"}],"histogram":[{"marker":{"pattern":{"fillmode":"overlay","size":10,"solidity":0.2}},"type":"histogram"}],"mesh3d":[{"colorbar":{"outlinewidth":0,"ticks":""},"type":"mesh3d"}],"parcoords":[{"line":{"colorbar":{"outlinewidth":0,"ticks":""}},"type":"parcoords"}],"pie":[{"automargin":true,"type":"pie"}],"scatter3d":[{"line":{"colorbar":{"outlinewidth":0,"ticks":""}},"marker":{"colorbar":{"outlinewidth":0,"ticks":""}},"type":"scatter3d"}],"scattercarpet":[{"marker":{"colorbar":{"outlinewidth":0,"ticks":""}},"type":"scattercarpet"}],"scattergeo":[{"marker":{"colorbar":{"outlinewidth":0,"ticks":""}},"type":"scattergeo"}],"scattergl":[{"marker":{"colorbar":{"outlinewidth":0,"ticks":""}},"type":"scattergl"}],"scattermap":[{"marker":{"colorbar":{"outlinewidth":0,"ticks":""}},"type":"scattermap"}],"scatterpolargl":[{"marker":{"colorbar":{"outlinewidth":0,"ticks":""}},"type":"scatterpolargl"}],"scatterpolar":[{"marker":{"colorbar":{"outlinewidth":0,"ticks":""}},"type":"scatterpolar"}],"scatter":[{"fillpattern":{"fillmode":"overlay","size":10,"solidity":0.2},"type":"scatter"}],"scatterternary":[{"marker":{"colorbar":{"outlinewidth":0,"ticks":""}},"type":"scatterternary"}],"surface":[{"colorbar":{"outlinewidth":0,"ticks":""},"colorscale":[[0.0,"#0d0887"],[0.1111111111111111,"#46039f"],[0.2222222222222222,"#7201a8"],[0.3333333333333333,"#9c179e"],[0.4444444444444444,"#bd3786"],[0.5555555555555556,"#d8576b"],[0.6666666666666666,"#ed7953"],[0.7777777777777778,"#fb9f3a"],[0.8888888888888888,"#fdca26"],[1.0,"#f0f921"]],"type":"surface"}],"table":[{"cells":{"fill":{"color":"#EBF0F8"},"line":{"color":"white"}},"header":{"fill":{"color":"#C8D4E3"},"line":{"color":"white"}},"type":"table"}]},"layout":{"annotationdefaults":{"arrowcolor":"#2a3f5f","arrowhead":0,"arrowwidth":1},"autotypenumbers":"strict","coloraxis":{"colorbar":{"outlinewidth":0,"ticks":""}},"colorscale":{"diverging":[[0,"#8e0152"],[0.1,"#c51b7d"],[0.2,"#de77ae"],[0.3,"#f1b6da"],[0.4,"#fde0ef"],[0.5,"#f7f7f7"],[0.6,"#e6f5d0"],[0.7,"#b8e186"],[0.8,"#7fbc41"],[0.9,"#4d9221"],[1,"#276419"]],"sequential":[[0.0,"#0d0887"],[0.1111111111111111,"#46039f"],[0.2222222222222222,"#7201a8"],[0.3333333333333333,"#9c179e"],[0.4444444444444444,"#bd3786"],[0.5555555555555556,"#d8576b"],[0.6666666666666666,"#ed7953"],[0.7777777777777778,"#fb9f3a"],[0.8888888888888888,"#fdca26"],[1.0,"#f0f921"]],"sequentialminus":[[0.0,"#0d0887"],[0.1111111111111111,"#46039f"],[0.2222222222222222,"#7201a8"],[0.3333333333333333,"#9c179e"],[0.4444444444444444,"#bd3786"],[0.5555555555555556,"#d8576b"],[0.6666666666666666,"#ed7953"],[0.7777777777777778,"#fb9f3a"],[0.8888888888888888,"#fdca26"],[1.0,"#f0f921"]]},"colorway":["#636efa","#EF553B","#00cc96","#ab63fa","#FFA15A","#19d3f3","#FF6692","#B6E880","#FF97FF","#FECB52"],"font":{"color":"#2a3f5f"},"geo":{"bgcolor":"white","lakecolor":"white","landcolor":"white","showlakes":true,"showland":true,"subunitcolor":"#C8D4E3"},"hoverlabel":{"align":"left"},"hovermode":"closest","paper_bgcolor":"white","plot_bgcolor":"white","polar":{"angularaxis":{"gridcolor":"#EBF0F8","linecolor":"#EBF0F8","ticks":""},"bgcolor":"white","radialaxis":{"gridcolor":"#EBF0F8","linecolor":"#EBF0F8","ticks":""}},"scene":{"xaxis":{"backgroundcolor":"white","gridcolor":"#DFE8F3","gridwidth":2,"linecolor":"#EBF0F8","showbackground":true,"ticks":"","zerolinecolor":"#EBF0F8"},"yaxis":{"backgroundcolor":"white","gridcolor":"#DFE8F3","gridwidth":2,"linecolor":"#EBF0F8","showbackground":true,"ticks":"","zerolinecolor":"#EBF0F8"},"zaxis":{"backgroundcolor":"white","gridcolor":"#DFE8F3","gridwidth":2,"linecolor":"#EBF0F8","showbackground":true,"ticks":"","zerolinecolor":"#EBF0F8"}},"shapedefaults":{"line":{"color":"#2a3f5f"}},"ternary":{"aaxis":{"gridcolor":"#DFE8F3","linecolor":"#A2B1C6","ticks":""},"baxis":{"gridcolor":"#DFE8F3","linecolor":"#A2B1C6","ticks":""},"bgcolor":"white","caxis":{"gridcolor":"#DFE8F3","linecolor":"#A2B1C6","ticks":""}},"title":{"x":0.05},"xaxis":{"automargin":true,"gridcolor":"#EBF0F8","linecolor":"#EBF0F8","ticks":"","title":{"standoff":15},"zerolinecolor":"#EBF0F8","zerolinewidth":2},"yaxis":{"automargin":true,"gridcolor":"#EBF0F8","linecolor":"#EBF0F8","ticks":"","title":{"standoff":15},"zerolinecolor":"#EBF0F8","zerolinewidth":2}}},"xaxis":{"anchor":"y","domain":[0.0,1.0],"title":{"text":"Cluster ID"}},"yaxis":{"anchor":"x","domain":[0.0,1.0],"title":{"text":"Feasible PCM count"}},"legend":{"title":{"text":"Cluster"},"tracegroupgap":0},"title":{"text":"Feasible PCM Candidates per Climate Regime (Assam)"},"barmode":"relative"},                        {"responsive": true}                    )                };            </script>        </div>
 </body>
 </html>
